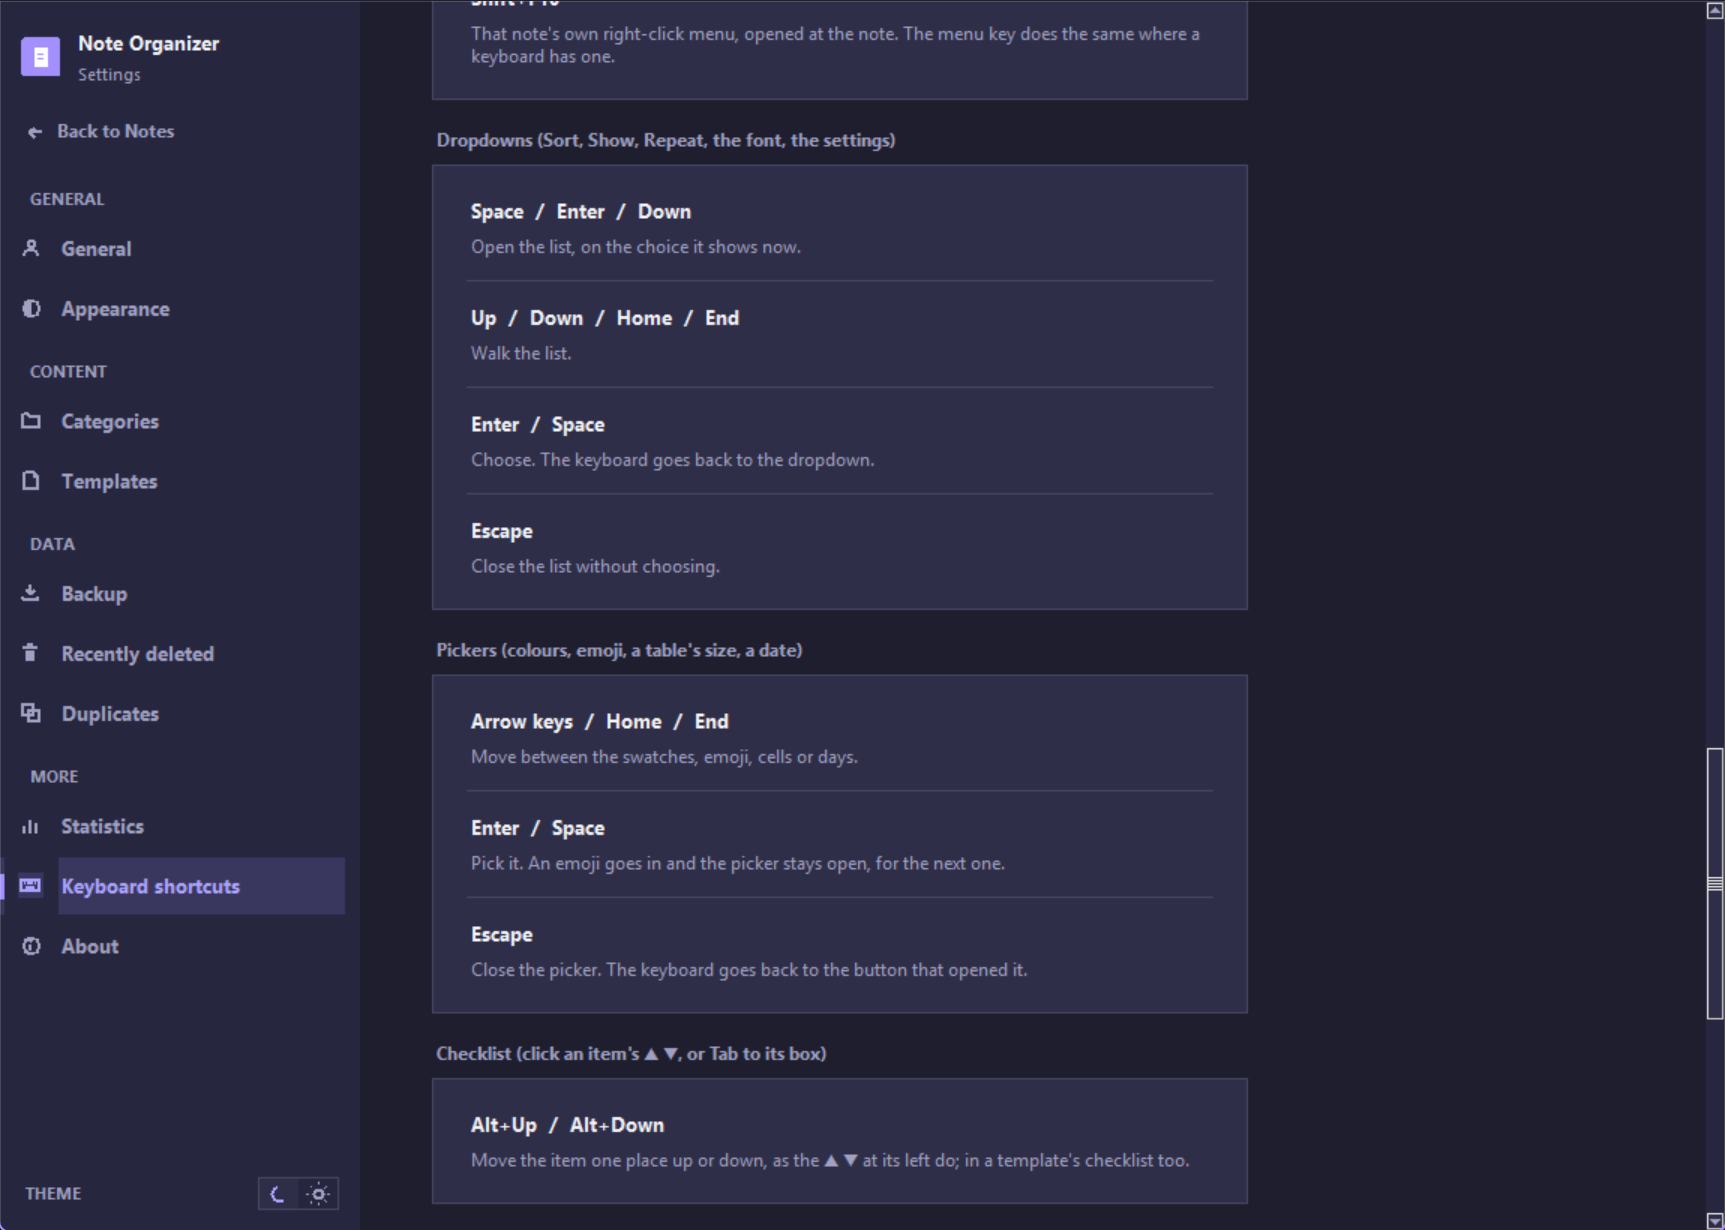
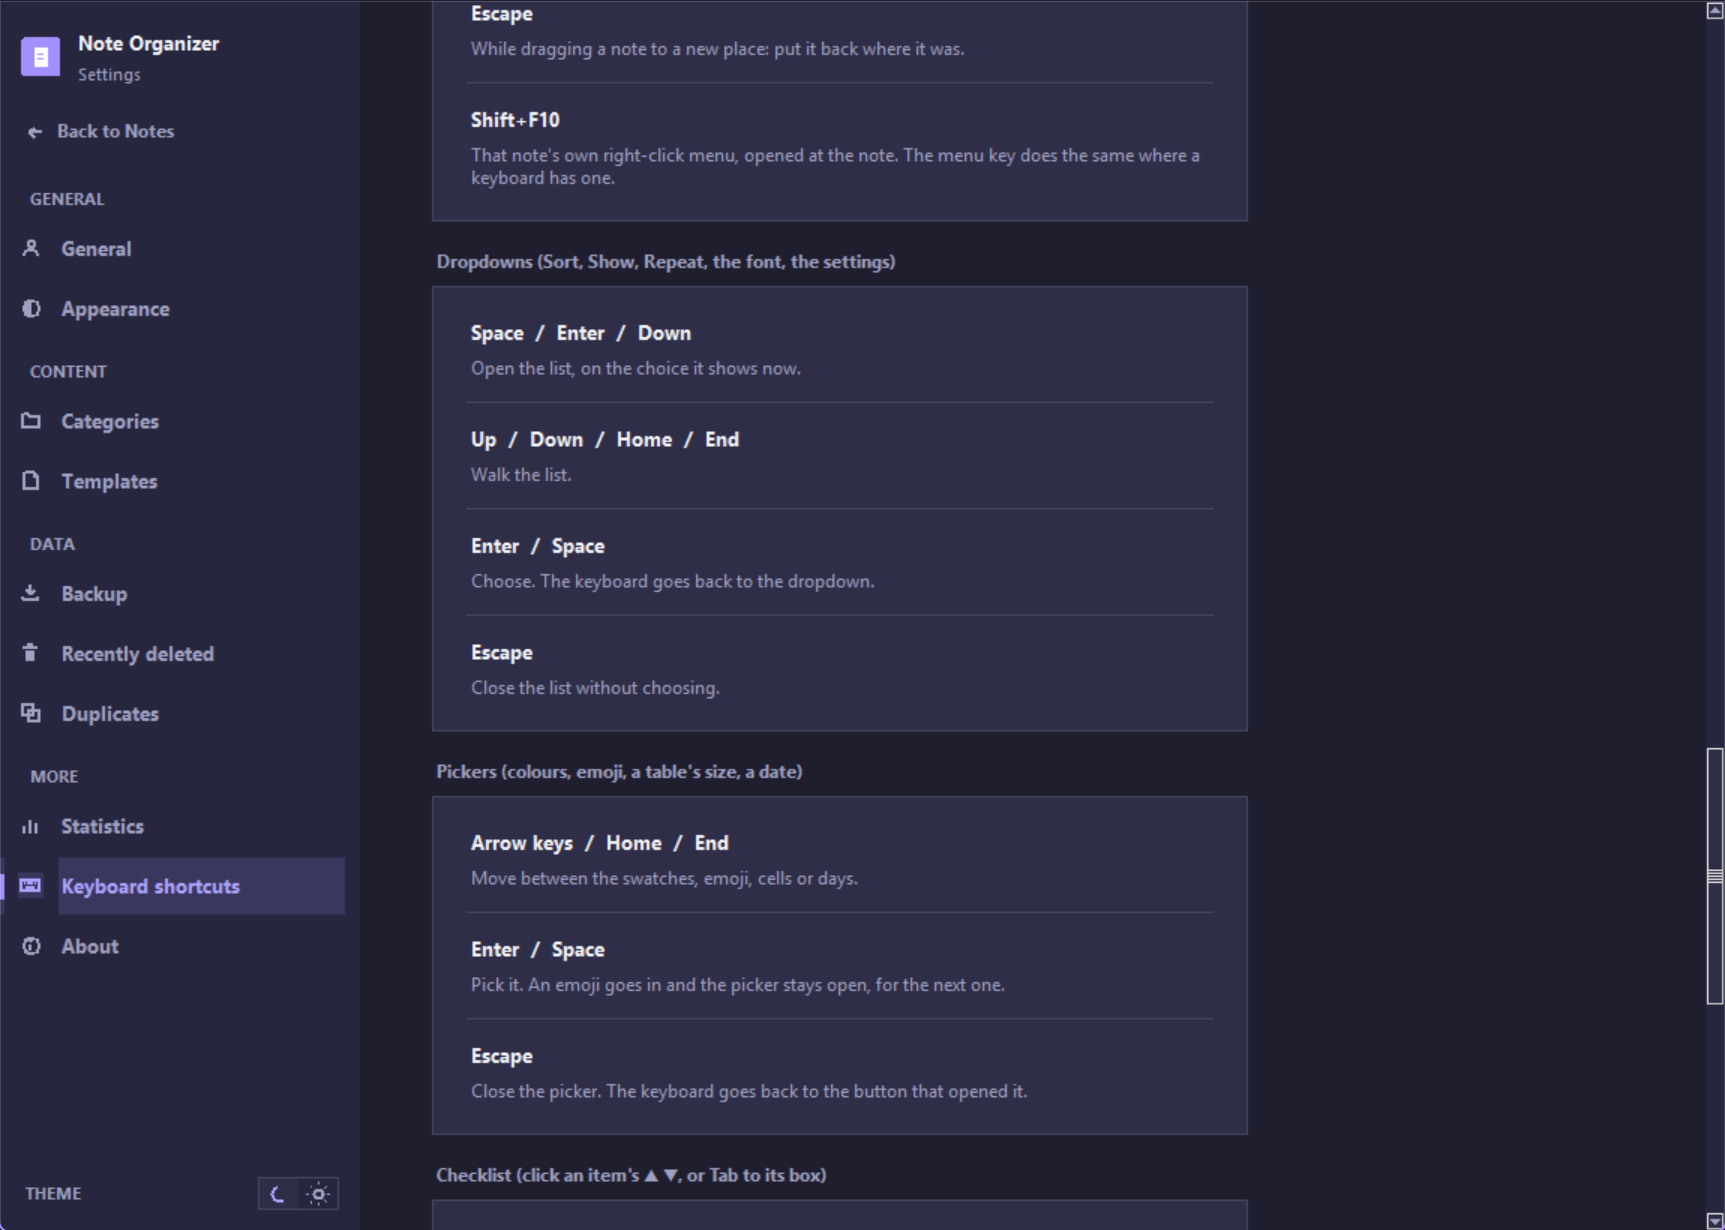
fix: The shortcuts page names the way out of the note; Text size says what it enlarges
Finding d5-accessibility-body-tab-exit-undocumented. In the note body Tab
types a tab and Shift+Tab is swallowed; the comments box keeps Tk's own
Tab. The one way out is Tk's Ctrl+Tab, and the page opening "Everything
the keyboard can do" never named it, nor Escape. Its Anywhere group now
names Tab and Shift+Tab (the page scrolls to what they reach), Ctrl+Tab
and Ctrl+Shift+Tab, Escape (a popup or a list closes; a question gets
its safe answer), beside Space and Enter and the delete's Ctrl+Z. The
user guide's table says the same.

Finding d5-accessibility-text-size-editor-only. Text size reconfigures
the note's text and its comments alone, while its row said "Bigger text
everywhere". The smaller honest change: the words now say "Bigger text in
every note, without reformatting a single one." Reading Windows' own text
scale and growing every font with it is a larger change, to every size
in the app, and is left for a decision of its own.

Docs: the story of the keyboard work in ISSUES_LOG ("The app the keyboard
could reach only half of", with its index row); the keyboard's design in
ARCHITECTURE (one section, the two bind tags, the popups, the ring);
qa/README's qa6 row and the lesson that Windows draws no focus colour
round a label, under the focus-ring rule.

Checks (qa6): the Anywhere group names Ctrl+Tab and Escape; Ctrl+Tab from
the body reaches the control after it and types nothing; the Text size
row's words. Mutants KS01, KS02 killed (Linux). Full suite green on
[…]

diff --git a/qa/qa6.py b/qa/qa6.py
@@ -4327,6 +4327,46 @@ app.save_notes(); NO.save_trash(app.trash)
 app.refresh_note_list()
 _kv_settle()
 
+# ---- KEYBOARD: the way out of the note, and what Text size promises ----
+# In the note body Tab types a tab, so the one way out is Tk's Ctrl+Tab --
+# and the page saying "Everything the keyboard can do" never named it.
+_kw_groups = dict((g[0], [c for c, _d in g[1]]) for g in app.SHORTCUT_GROUPS)
+check(f'the shortcuts page names, under Anywhere, the way out of the note and '
+      f'Escape ({_kw_groups.get("Anywhere")})',
+      'Ctrl+Tab  /  Ctrl+Shift+Tab' in _kw_groups.get('Anywhere', [])
+      and 'Escape' in _kw_groups.get('Anywhere', []))
+app.notebook.select(app.TAB_NOTES)
+app.new_note()
+_kv_settle()
+_kw_next = app.body_text.tk_focusNext()
+if _take_focus(app.body_text):
+    app.body_text.event_generate('<Control-Tab>')
+    _kv_settle()
+_kw_held = None
+try:
+    _kw_held = app.nametowidget(str(app.tk.call('focus', '-lastfor', app)))
+except (KeyError, tk.TclError):
+    pass
+check(f'...and Ctrl+Tab does leave the note, for the control after it ({_kw_held})',
+      _kw_held is _kw_next and app.body_text.get('1.0', 'end-1c') == '')
+# Text size makes the notes bigger, not the rest of the app: its words say so.
+def _walk_all(w):
+    for c in w.winfo_children():
+        yield c
+        yield from _walk_all(c)
+
+
+app.show_settings_page()
+app.toggle_settings_panel('appearance')
+_kv_settle(6)
+_kw_hint = [str(w.cget('text')) for w in _walk_all(app.settings_content)
+            if isinstance(w, tk.Label) and str(w.cget('text')).startswith('Bigger text')]
+check(f'the Text size row promises bigger text in every note, not everywhere '
+      f'({_kw_hint})', _kw_hint == ['Bigger text in every note, without '
+                                    'reformatting a single one.'])
+app.hide_settings_page()
+_kv_settle()
+
 
 print()
 print(f"=== QA6 FAILURES: {fails if fails else 'NONE'} ===")

diff --git a/noteorganizer/ui/settings_page.py b/noteorganizer/ui/settings_page.py
@@ -3719,7 +3719,7 @@ class SettingsPageMixin:
 
         row = self._card_row(
             card, "Text size",
-            "Bigger text everywhere, without reformatting a single note.")
+            "Bigger text in every note, without reformatting a single one.")
         self.editor_font_size_var = tk.StringVar(value=str(self.editor_font_size))
         self._build_themed_dropdown(
             row, self.editor_font_size_var, [str(s) for s in FONT_SIZES],
@@ -3845,6 +3845,12 @@ class SettingsPageMixin:
                        "its tables; Enter / Shift+Enter step the matches."),
         )),
         ("Anywhere", (
+            ("Tab  /  Shift+Tab", "The next / previous control. The page "
+                                  "scrolls to show it."),
+            ("Ctrl+Tab  /  Ctrl+Shift+Tab", "Leave the note or the comments "
+                                            "box, where Tab types a tab."),
+            ("Escape", "Close a popup or a dropdown's list. On a question: "
+                       "its safe answer (No, Cancel)."),
             ("Space  /  Enter", "Press what the keyboard is on — a drawn "
                                 "button too: a theme, an alignment, a "
                                 "category's rename or colour."),

diff --git a/docs/ISSUES_LOG.md b/docs/ISSUES_LOG.md
@@ -189,6 +189,7 @@ is in the table below as well.
 | [The table drawn whole](#the-table-drawn-whole) | Anything drawn whole needs a size past which it is not drawn; outside content chooses the size. | next |
 | [The Trash restored under a window it never had](#the-trash-restored-under-a-window-it-never-had) | A setting that decides what is deleted travels with the things it decides about. | next |
 | [An old folder judged by one file](#an-old-folder-judged-by-one-file) | Before acting on a folder, read every file the action touches. | next |
+| [The app the keyboard could reach only half of](#the-app-the-keyboard-could-reach-only-half-of) | A mouse binding is not a control; ask every page what a click can press that Tab cannot reach. And a focus ring is a claim about the screen: Windows draws none round a label. | next |
 | [The plain paste with no ceiling](#the-plain-paste-with-no-ceiling) | A limit with a way round is not a limit: protect every door to what it protects. | next |
 
 Smaller lessons, each once a long comment in the code, are collected
@@ -2807,6 +2808,45 @@ still.
 
 **Takeaway:** a label whose text can come and go sizes its row by what it says at the moment;
 give it the height of its tallest state, or the layout moves with the words.
+
+### The app the keyboard could reach only half of
+
+**Symptom:** in the final audit before publishing, an agent walked Tk's own Tab chain on every
+page and listed what a mouse could press that Tab never reached. The list was long: all thirteen
+dropdowns (Text size, the app's one setting for reading, among them), the colour and emoji
+pickers, a category's rename, colour and delete, the eight theme tiles, the alignment buttons,
+the sidebar's arrow, every day of the calendar, and the delete toast's Undo, gone after eight
+seconds. Where Tab did go, it often went out of sight: at the window's opening size it landed on
+Save and Delete below the fold, and on sixty Trash controls, with the view standing still.
+
+**Root cause:** four things, one of them Tk's and three the app's. A control the app draws — a
+canvas, a label, a frame of labels — was given a mouse binding and nothing else: no `takefocus`,
+no key. A popup is a window of its own, and Tab never leaves the window it is in, so even a
+picker made of real buttons was out of reach once open. Tk's Tab moves the keyboard and never the
+view, and the pages here are frames drawn on canvases. And then, found only by a photograph of
+the emoji picker: **Windows draws no focus colour round a label.** Tk said the keyboard was on
+the second emoji, its `highlightcolor` was the ring's, and the picture showed nothing; it draws a
+label's resting colour, `highlightbackground`, and only that.
+
+**Fix:** once, in the helpers every popup and drawn control goes through. Two bind tags, bound
+once: Space and Return press a drawn control, and the arrows, Home and End walk a popup's choices
+by where they stand. A popup asked for from the keyboard takes it, on its current choice, and
+gives it back to its opener when it closes, by any road; a click's popup leaves the keyboard
+where it was. A press that draws its page again puts the keyboard back where the control stood.
+The calendar's month has its own ring and arrows, as the note list has. What Tab lands on is
+scrolled into sight. And the ring is both border colours while the keyboard is on a control, in
+the theme's text colour, which the contrast gate now measures (the accent the checklist's ring
+wore is under 3:1 on two light themes).
+
+**How it is held:** qa6 walks every page — the notes page, the calendar with a day open, History,
+each Settings section — and fails on any widget a click acts on that is neither a Tab stop nor
+inside one. It is the class's check rather than a list of the instances, so the next control
+drawn with a mouse binding alone turns it red. Each route has its own checks and mutants (KF, KD,
+KP, KB, KC in `tools/mutants.json`).
+
+**Takeaway:** a mouse binding is not a control; a control is what both hands can press. And a
+focus ring is a claim about the screen: Tk saying the keyboard is there, and a colour option
+saying what to draw, were both true while nothing was drawn — look at the picture.
 
 ## Editor & input interaction
 

diff --git a/qa/README.md b/qa/README.md
@@ -63,7 +63,7 @@ suite has had, and what each one really was:
 | `qa3` | trash, sharing, import/export |
 | `qa4` | theming, stress tests, leak regression — and the note list drawn a screenful at a time, with a save redrawing one card |
 | `qa5` | corrupt data, edge cases |
-| `qa6` | grouping, settings, attachments, multi-feature combinations — and every control in sight, on every page, at an ordinary and the smallest window, and on a screen scaled to 150% and 200% (Sharp text); spelling, with a stand-in dictionary |
+| `qa6` | grouping, settings, attachments, multi-feature combinations — and every control in sight, on every page, at an ordinary and the smallest window, and on a screen scaled to 150% and 200% (Sharp text); every control a click acts on within Tab's reach, and what Tab lands on in sight; spelling, with a stand-in dictionary |
 | `qa7` | calendar delete, the month drawn on one canvas, the calendar History register, multi-select, image preview, autosave & memory fixes |
 | `qa8` | search debounce, background-timer robustness |
 | `qa9` | the nested-dropdown-inside-popup fix |
@@ -493,6 +493,13 @@ A new surface joins this list the moment it ships.
   card; the other order moves the focus off the card and loses the ring
   every time, turning the flake into a certainty. Found by opening the
   failing picture beside the reference — the ring was simply not there.
+
+  A ring can also be missing with the foreground held: **Windows draws no
+  focus colour round a label**, only its resting one. Tk said the keyboard
+  was on an emoji, `highlightcolor` was the ring's, and the photograph of
+  scene 25 showed nothing. So a check asks for the ring in both border
+  colours (qa1's emoji check), and it reads them after an `update()`: Tk
+  can report the focus before it has delivered the `<FocusIn>` that paints.
 - **A `Toplevel` parented to a widget JOINS that widget's tree, and on a
   headless display the pointer never moves.** A hover preview created as
   `tk.Toplevel(row)` appears in `row.winfo_children()`, so it lands inside

diff --git a/docs/ARCHITECTURE.md b/docs/ARCHITECTURE.md
@@ -374,6 +374,28 @@ dismissed, but on Linux it returns at once with the menu still open (measured in
 so destroying it there would make it vanish. Only one right-click menu is ever open, so the
 previous one is done with when the next is asked for.
 
+### The keyboard: every control both hands can press
+
+Tk's own buttons take Tab and Space; what the app draws — a canvas, a label, a frame of labels —
+takes neither unless told. So a drawn control is made with `_pressable` (in `ui/dialogs.py`): a
+Tab stop, pressed by Space and Return as a click presses it, its right-click menu on Shift+F10.
+Two bind tags carry this, bound once for the whole app, so a rebuilt list adds no Tcl commands.
+
+A popup is a window of its own, and Tab never leaves the window it is in. So a popup opened from
+the keyboard takes it (`_keyboard_into_popup`, from `_place_dropdown_popup`, the one door every
+popup goes through) on its current choice; the arrows walk its choices by where they stand, one
+rule for a list, a grid of swatches and the emoji picker; and when it closes, by any road, the
+keyboard goes back to the opener — or to what stands in its place, when the choice drew the page
+again. A popup a click opens leaves the keyboard alone: the mouse's behaviour does not change.
+
+Tab moves the keyboard and never the view, and the editor, Settings and the long lists are frames
+drawn on canvases, so what Tab lands on is scrolled into sight (`_bring_into_sight`).
+
+The ring is the theme's text colour (`focus_ring`), measured by the contrast gate, and it is both
+border colours while the keyboard is on a control: Windows draws no focus colour round a label,
+only its resting one ([the story](ISSUES_LOG.md#the-app-the-keyboard-could-reach-only-half-of)).
+qa6 asks every page whether a click can press anything Tab cannot reach.
+
 ### Theme tracking — two different patterns, on purpose
 
 `track_theme(widget, **option_map)` registers a widget so a later theme switch re-applies the

diff --git a/docs/USER_GUIDE.md b/docs/USER_GUIDE.md
@@ -1041,6 +1041,9 @@ keys that only mean something inside a list, in the find bar, or on the note lis
 | **Ctrl+S** | anywhere | Saves the note you're editing. |
 | **Ctrl+F** | anywhere | Opens the find bar for searching within the current note. |
 | **Ctrl+Z** | right after a delete, outside a text box | Takes the delete back, as the banner's **Undo** does. The banner stays while the keyboard is on its Undo. |
+| **Tab** / **Shift+Tab** | anywhere | Moves to the next / previous control; the page scrolls to show it. Every control a click can press is on the way. |
+| **Ctrl+Tab** / **Ctrl+Shift+Tab** | in the note or the comments box | Leaves the box (where Tab types a tab) for the next / previous control. |
+| **Esc** | a popup or a dropdown's list | Closes it, and the keyboard goes back to what opened it. |
 | **Space** / **Enter** | anywhere | Presses what the keyboard is on — a drawn button too: a theme, an alignment, a category's rename, colour or delete, the sidebar's ‹. |
 | **Ctrl+B** / **Ctrl+I** / **Ctrl+U** / **Ctrl+D** | editor | Bold / Italic / Underline / Strikethrough. |
 | **Ctrl+V** | editor | Pastes — the bold, the colours and the lists come with it. |
